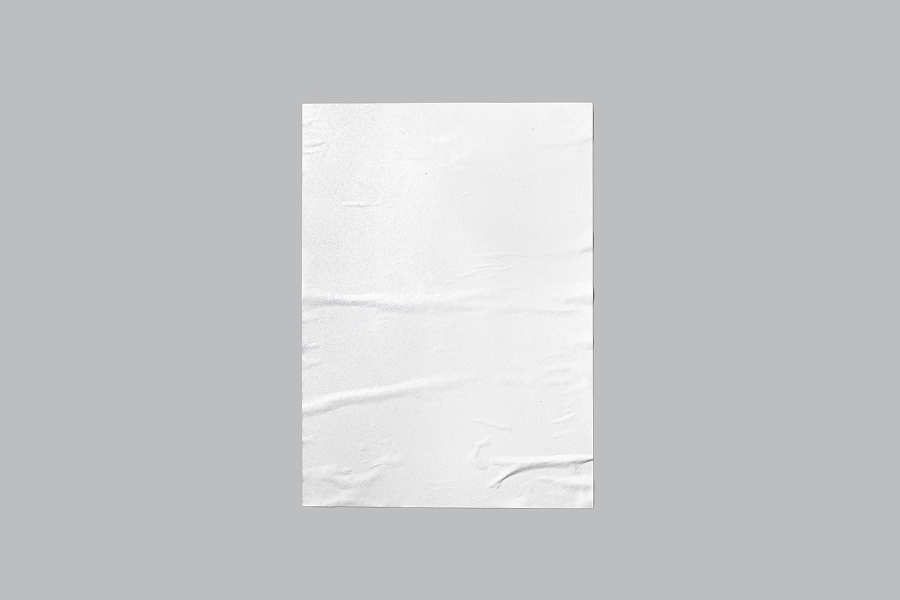
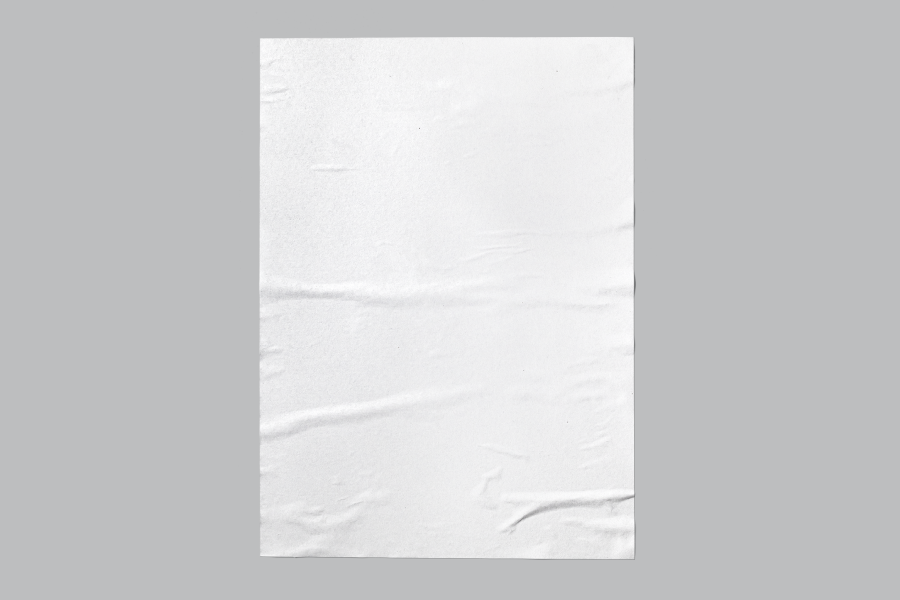
tests

Changed region(s): [[0.28, 0.06, 0.7156, 0.96], [0.56, 0.78, 0.5911, 0.81]]

diff --git a/script.js b/script.js
@@ -1,15 +1,15 @@
-const canvas = document.getElementById("canvas");
-const ctx = canvas.getContext("2d");
+// const canvas = document.getElementById("canvas");
+// const ctx = canvas.getContext("2d");
 
-// https://developer.mozilla.org/en-US/docs/Web/API/Canvas_API/Tutorial/Using_images
-// I added my image at the base of the canvas 
-const img = new Image();
+// // https://developer.mozilla.org/en-US/docs/Web/API/Canvas_API/Tutorial/Using_images
+// // I added my image at the base of the canvas 
+// const img = new Image();
 
-img.addEventListener("load", () => {
-  ctx.drawImage(img, 0, 0);
-});
+// img.addEventListener("load", () => {
+//   ctx.drawImage(img, 0, 0);
+// });
 
-img.src = "postertest.png"; 
+// img.src = "postertest.png"; 
 
 // adding my text value to show up through innertext 
 // https://developer.mozilla.org/en-US/docs/Web/API/HTMLElement/innerText
@@ -74,4 +74,16 @@ const reset = document.querySelector('#reset');
 reset.addEventListener('click', () => {
     preview.classList.remove('style-1', 'style-2', 'style-3');
     preview2.classList.remove('style-1', 'style-2', 'style-3');
+});
+
+// from eric and michael to keep an image
+const input3 = document.getElementById('imageInput');
+const preview3 = document.getElementById('preview3');
+
+input3.addEventListener('change', () => {
+  const file = input3.files[0];
+  if (file) {
+    preview3.src = URL.createObjectURL(file); // Create a temporary local URL
+    preview3.style.display = 'block'
+  }
 });

diff --git a/index.html b/index.html
@@ -49,6 +49,10 @@
             <button id="style-3">Style 3</button>
         </section>
         <section>
+            <input type="file" id="imageInput">
+            <img id="preview3">
+        </section>
+        <section>
             <button type="reset" id="reset">Reset</button>
         </section>
         </section>
@@ -56,7 +60,8 @@
                 <h2 id="maintext">primary text</h2>
                 <p id="secondtext">secondary text</p>
                 <!-- I left the canvas in for now to come back to it -->
-                <canvas id="canvas" width="900" height="600"></canvas>
+                <!-- <canvas id="canvas" width="900" height="600"></canvas> -->
+                <img src="postertest.png"/>
         </section>
         </main>
         <footer>

diff --git a/style.css b/style.css
@@ -85,15 +85,6 @@ a {
     justify-content: space-between;
 }
 
-
-#maintext {
-    font-size: var(--textL);
-}
-
-#secondtext {
-    font-size: var(--textM);
-}
-
 .style-1 {
     font-family: var(--font-family1);
 }
@@ -112,3 +103,24 @@ button {
     padding: calc(var(--spaceS)*0.2);
 }
 
+
+img {
+    position: relative;
+    z-index: -1;
+}
+
+#maintext {
+    font-size: calc(var(--textM)*1.5);
+    position: absolute;
+    top: 35%;
+    left: 55%;
+    mix-blend-mode: multiply;
+    opacity: 95%;
+}
+
+#secondtext {
+    font-size: var(--textM);
+    position: absolute;
+    top: 45%;
+    left: 55%;
+}
